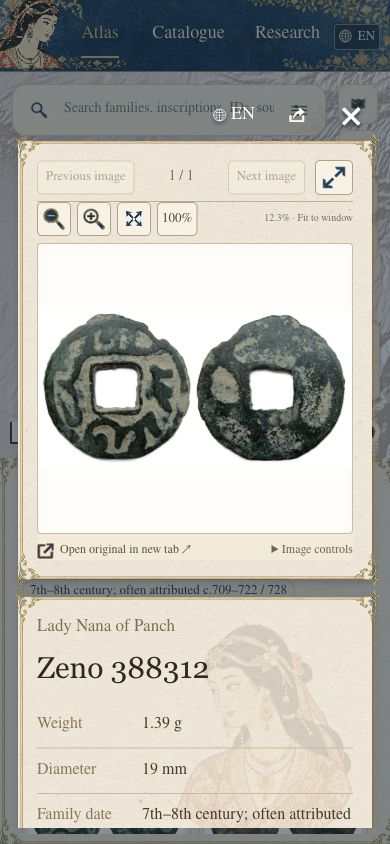
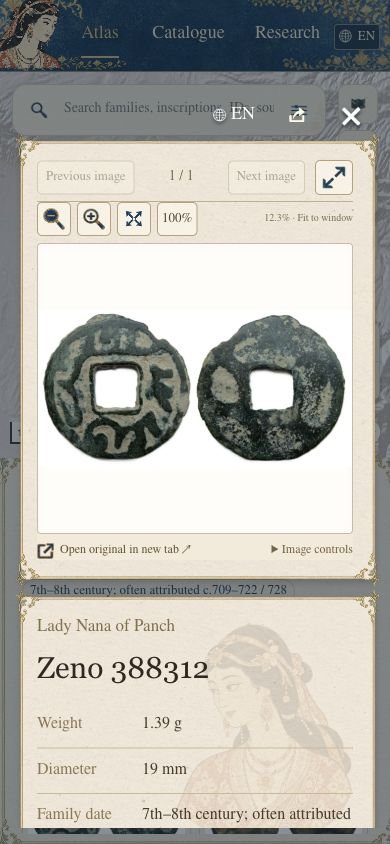
fix: match paper to asymmetric frame side margins

diff --git a/app/detail-frames.css b/app/detail-frames.css
@@ -17,6 +17,8 @@
  opacity:1;box-shadow:0 4px 7px rgb(0 0 0 /16%);
  pointer-events:none;z-index:-1;
 }
+/* The source frame has asymmetric transparent side margins. */
+.art-detail[data-kind="record"] .detail-frame::before {left:12px;right:6px}
 /* The family wrapper ends at its visible frame, not the asset alpha margin. */
 .atlas-screen .family-drawer::before {inset:-9px}
 .atlas-screen .family-drawer::after {inset:0}
